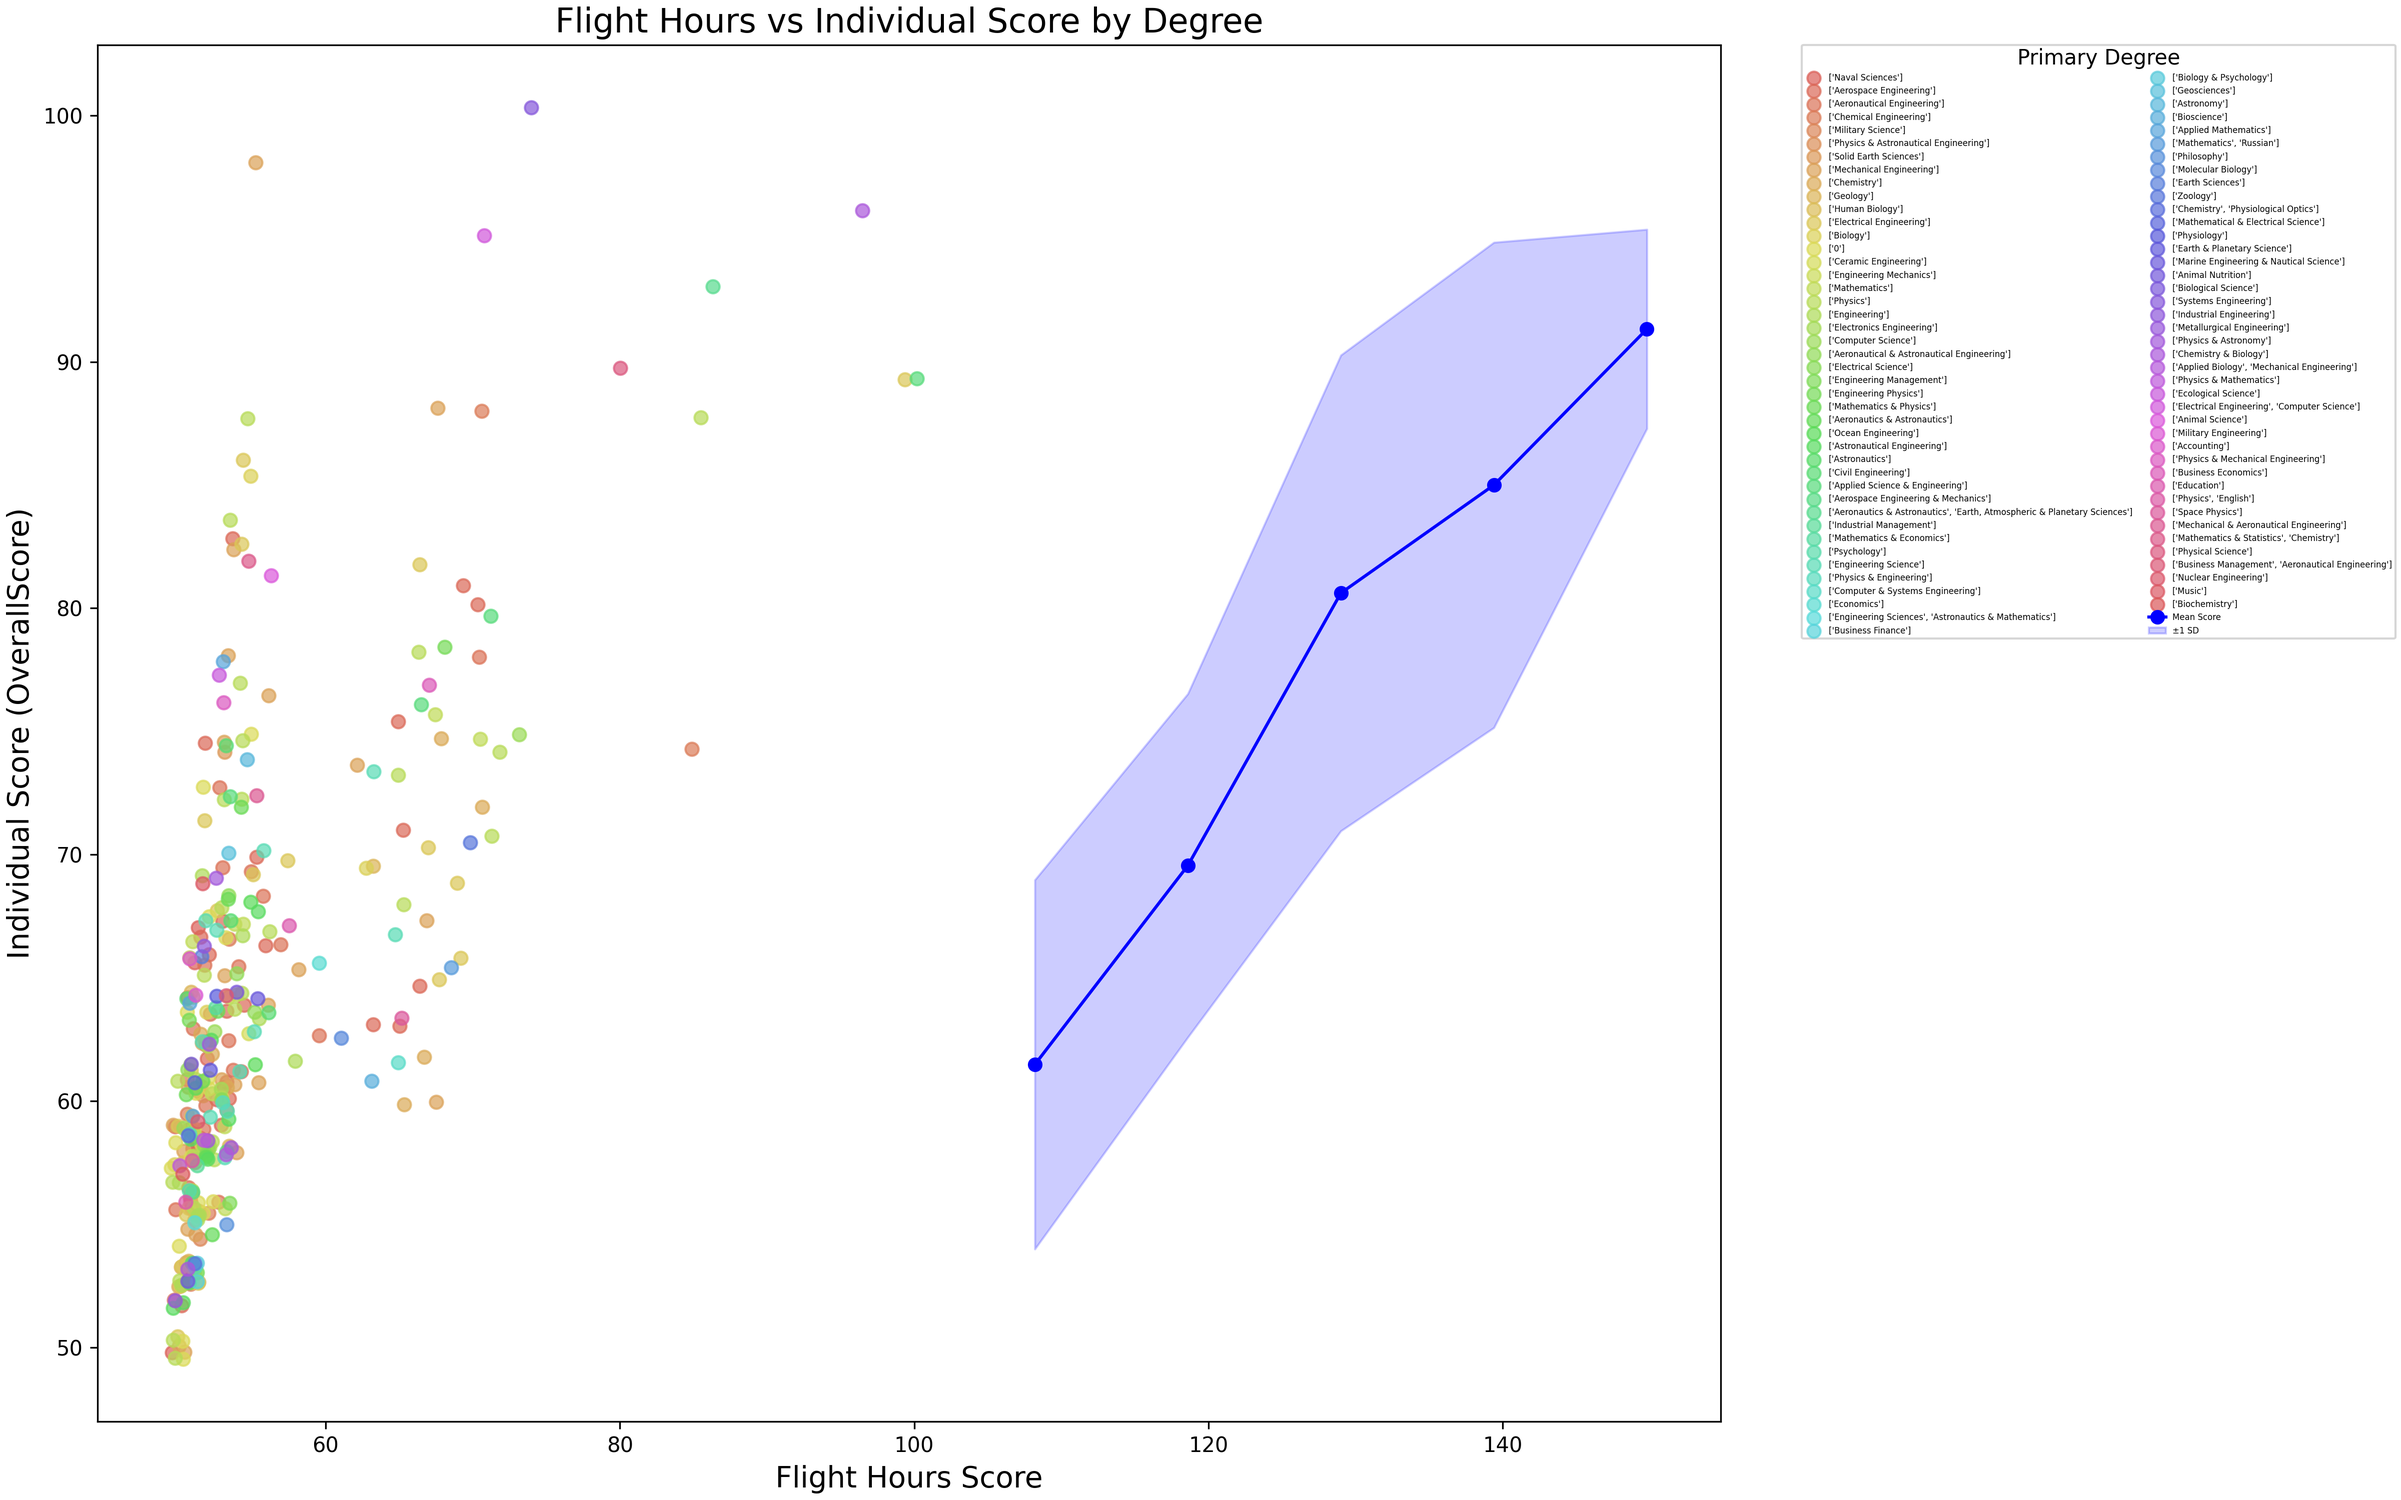
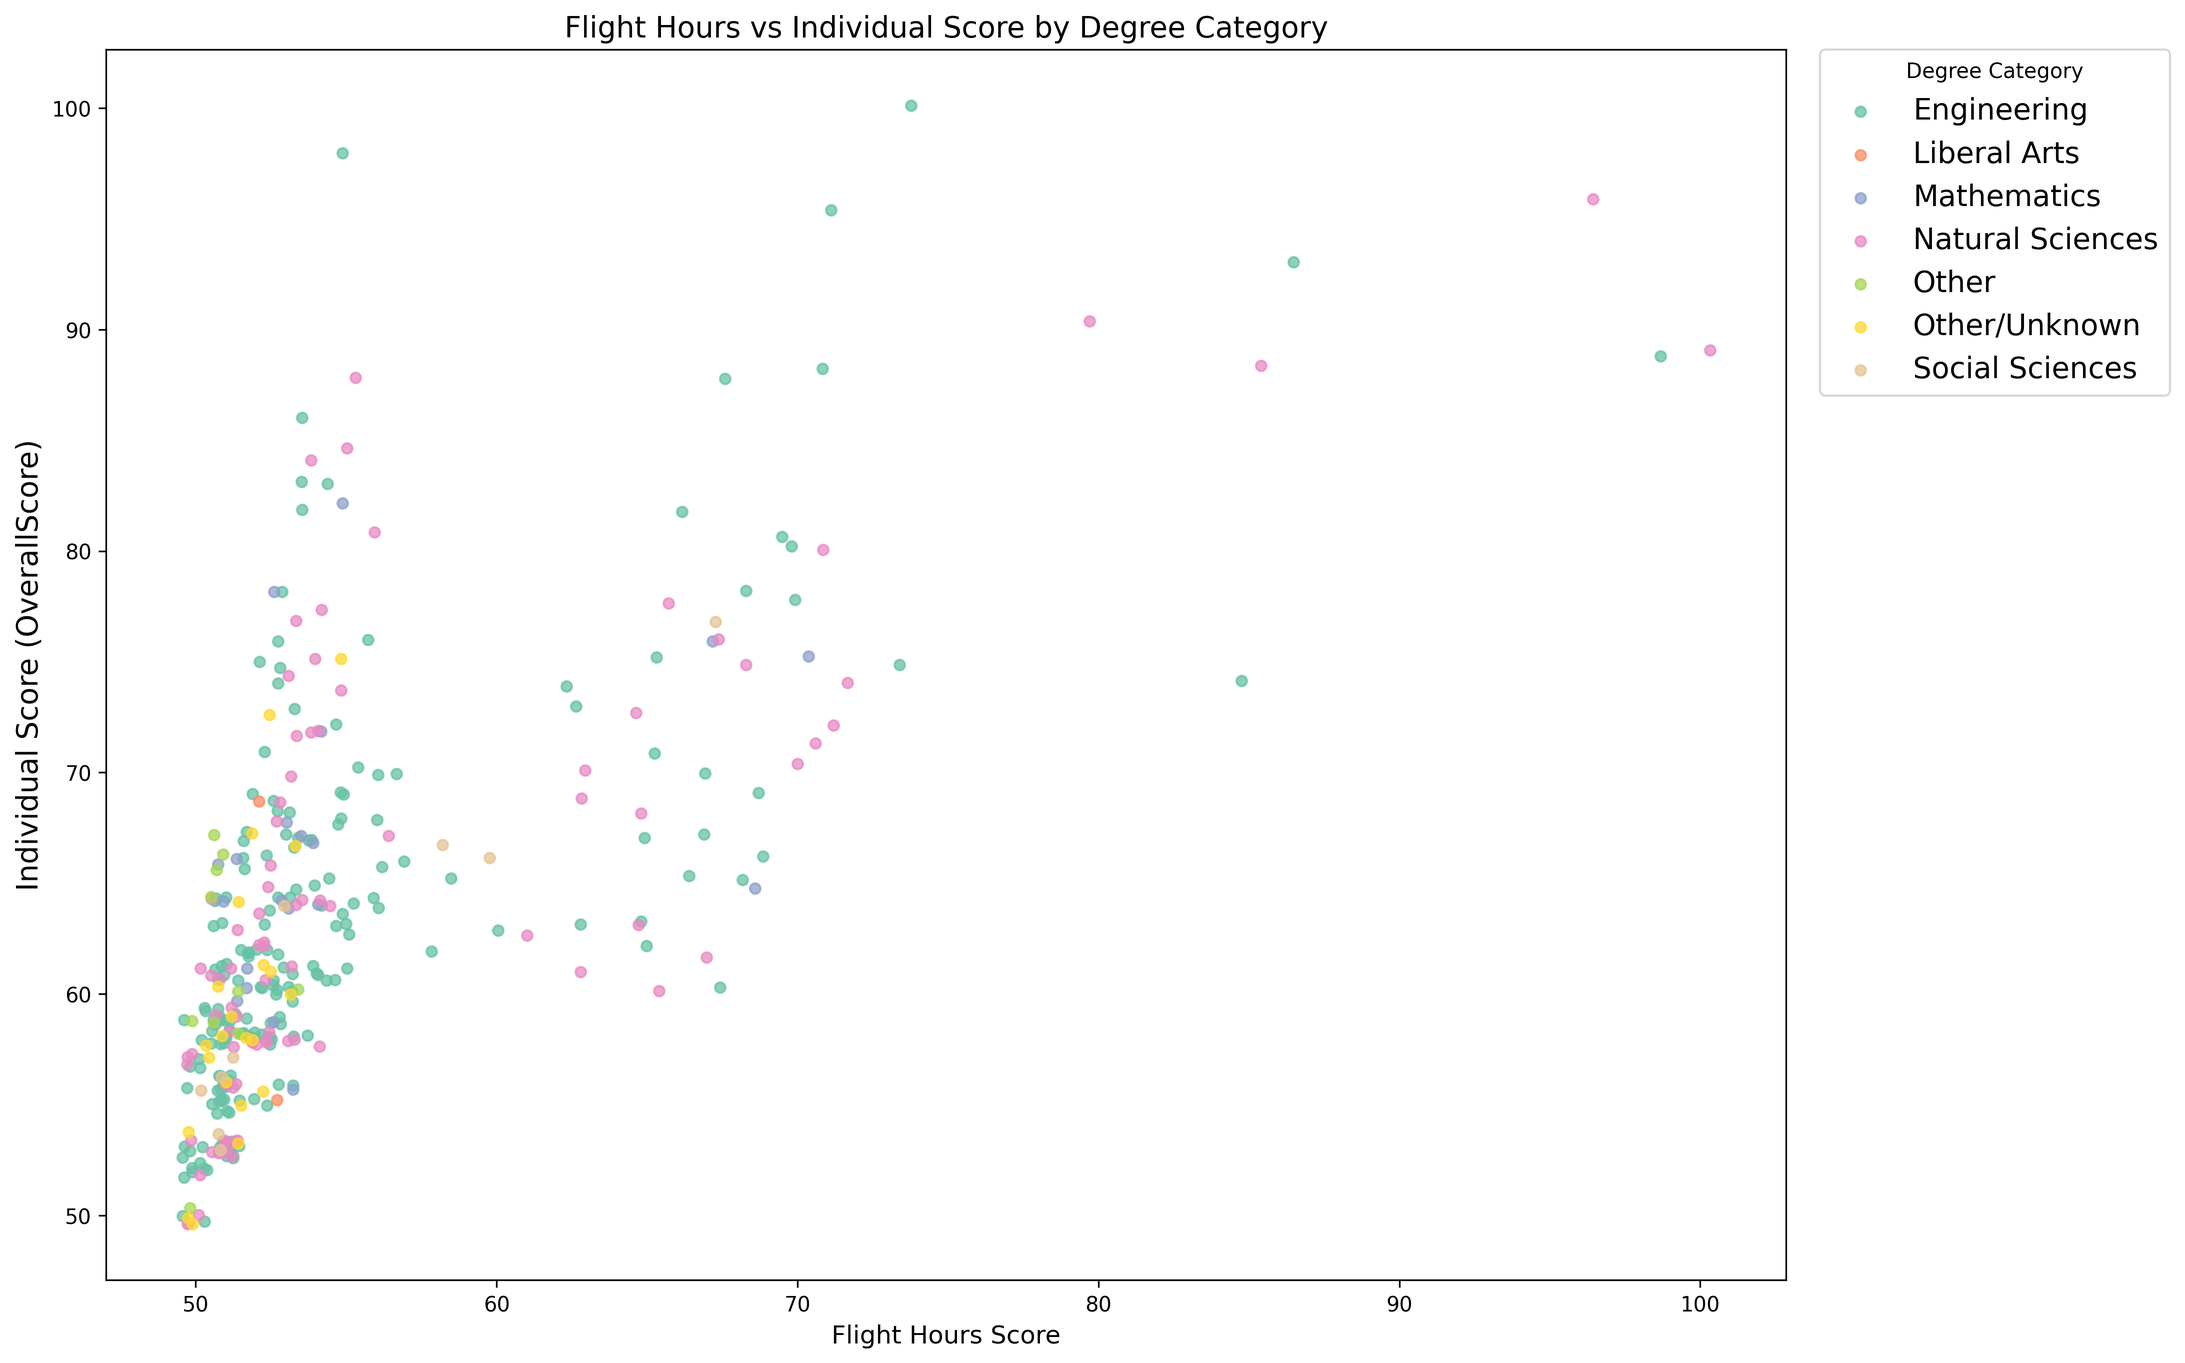
Simplified Degree Visualization

diff --git a/src/degree_scatterplot.py b/src/degree_scatterplot.py
@@ -2,7 +2,11 @@ import pandas as pd
 import matplotlib.pyplot as plt
 import seaborn as sns
 import numpy as np
-from sklearn.linear_model import LinearRegression
+import json
+import ast
+import re
+import difflib
+from collections import Counter
 
 # Visualize flight hours vs individual scores, color-coded by degree
 
@@ -13,72 +17,142 @@ df = pd.read_csv("data/processed/astronauts_scores.csv")
 required_columns = ["FlightHours_Score", "OverallScore", "UndergradMajorList"]
 for col in required_columns:
     if col not in df.columns:
-        raise ValueError(f"Required column '{col}' not found in dataframe")
+        raise ValueError(f"Required column '{col}' not found in dataframe. Found columns: {list(df.columns)}")
 
 # For plotting, we can assign a "primary degree" to each astronaut (first listed undergrad major)
-df["PrimaryDegree"] = df["UndergradMajorList"].apply(lambda lst: lst.split(";")[0].strip() if pd.notna(lst) and lst != "" else "Unknown")
+# Robust extractor: handles real lists, stringified lists, semicolon-separated strings, comma-separated strings.
+def extract_primary_degree(cell):
+    # if it's already a list type
+    if isinstance(cell, list):
+        return cell[0].strip() if cell else "Unknown"
+    if pd.isna(cell) or str(cell).strip() == "":
+        return "Unknown"
+    s = str(cell).strip()
+    # try to parse stringified list like "['Physics']"
+    try:
+        parsed = ast.literal_eval(s)
+        if isinstance(parsed, list) and parsed:
+            # return first element
+            return str(parsed[0]).strip()
+    except Exception:
+        pass
+    # fallback: split on semicolon (preferred) or comma
+    parts = re.split(r"\s*;\s*|\s*,\s*", s)
+    return parts[0].strip() if parts and parts[0] != "" else s
 
-# Generate a color palette for each degree dynamically
-unique_degrees = df["PrimaryDegree"].unique()
-palette = sns.color_palette("hls", len(unique_degrees))
-degree_colors = dict(zip(unique_degrees, palette))
+df["PrimaryDegree"] = df["UndergradMajorList"].apply(extract_primary_degree)
+
+# normalize for display (but keep original PrimaryDegree too)
+df["PrimaryDegree"] = df["PrimaryDegree"].astype(str).str.strip()
+
+#Grouping each major into categories
+
+with open("data/raw/degree_categories.json", "r") as f:
+    degree_categories = json.load(f)
+
+# Normalization helper that we apply to both the CSV degrees and JSON degrees
+def normalize_degree_text(s):
+    if s is None:
+        return ""
+    s = str(s)
+    s = s.strip()
+    # replace & with 'and'
+    s = s.replace("&", " and ")
+    # remove quotes and brackets
+    s = re.sub(r"[\[\]\"']", " ", s)
+    # remove punctuation except spaces and ampersands already handled
+    s = re.sub(r"[^0-9a-zA-Z\s]", " ", s)
+    # collapse whitespace and lowercase
+    s = re.sub(r"\s+", " ", s).strip().lower()
+    return s
+
+# Build a normalized flat lookup from normalized major -> category
+degree_to_category = {}
+for category, majors in degree_categories.items():
+    for major in majors:
+        norm = normalize_degree_text(major)
+        if norm:  # avoid empty keys
+            degree_to_category[norm] = category
+
+# Map a degree string into a category using multiple strategies
+def map_degree_to_category(degree):
+    if not degree or degree.lower() in ("nan", "none"):
+        return "Other/Unknown"
+    norm = normalize_degree_text(degree)
+    # Exact normalized match
+    if norm in degree_to_category:
+        return degree_to_category[norm]
+    # Fuzzy match against known normalized majors
+    candidates = difflib.get_close_matches(norm, degree_to_category.keys(), n=1, cutoff=0.72)
+    if candidates:
+        return degree_to_category[candidates[0]]
+    # Token-substring heuristic: if any token in norm appears inside a known major or vice versa
+    norm_tokens = set(norm.split())
+    for key in degree_to_category:
+        key_tokens = set(key.split())
+        # overlap of tokens
+        if norm_tokens & key_tokens:
+            return degree_to_category[key]
+    # give up
+    return "Other/Unknown"
+
+# Apply mapping and add a debug summary
+df["DegreeCategory"] = df["PrimaryDegree"].apply(map_degree_to_category)
+
+# Debugging output to verify mapping quality
+total = len(df)
+mapped = (df["DegreeCategory"] != "Other/Unknown").sum()
+unknown = total - mapped
+print(f"Degree mapping: total={total}, mapped={mapped}, unknown={unknown}")
+
+# Show the top unknown PrimaryDegree values for manual inspection
+unknown_samples = df[df["DegreeCategory"] == "Other/Unknown"]["PrimaryDegree"].value_counts().head(30)
+if not unknown_samples.empty:
+    print("\nTop unknown PrimaryDegree values (for debugging):")
+    print(unknown_samples.to_string())
+
+# Create a color palette by category
+categories = sorted(df["DegreeCategory"].unique())
+palette = sns.color_palette("Set2", len(categories))  # Or any palette you like
+color_map = dict(zip(categories, palette))
 
 # Create figure with constrained layout
-fig, ax = plt.subplots(figsize=(16, 10), constrained_layout=True)
+fig, ax = plt.subplots(figsize=(16, 10), constrained_layout=False)
+# leave room on right for legend
+fig.tight_layout(rect=[0, 0, 0.78, 1])
 
-# Scatter each degree
-for degree, color in degree_colors.items():
-    subset = df[df["PrimaryDegree"] == degree]
-    jitter_strength = 0.5  # How close the dots are
-    subset_x = subset["FlightHours_Score"] + np.random.uniform(-jitter_strength, jitter_strength, size=len(subset))
-    subset_y = subset["OverallScore"] + np.random.uniform(-jitter_strength, jitter_strength, size=len(subset))
+# Scatter each degree (add small jitter scaled to score ranges)
+x_jitter_scale = 0.5  # adjust if needed
+y_jitter_scale = 0.4
 
-    # Code without jitter
-    # ax.scatter(subset["FlightHours_Score"], subset["OverallScore"],
-    #            label=degree, color=color, s=50, alpha=0.7)
-    ax.scatter(subset_x, subset_y, label=degree, color=color, s=40, alpha=0.7)
-    
-# Trend line and standard deviation stuff
-# X = df["FlightHours_Score"].values.reshape(-1, 1)
-# y = df["OverallScore"].values
-# reg = LinearRegression().fit(X, y)
-# y_pred = reg.predict(X)
-# residuals = y - y_pred
-# std = np.std(residuals)
-# plt.fill_between(df["FlightHours_Score"], y_pred - std, y_pred + std, color='gray', alpha=0.2, label='±1 SD')
-# plt.plot(df["FlightHours_Score"], y_pred, color="black", linestyle="--", label="Trendline")
-
-min_val = df["FlightHours_Score"].min()
-max_val = df["FlightHours_Score"].max()
-num_bins = 6  # adjust for granularity - 6 looks pretty good
-bins = np.linspace(min_val - 1, max_val + 1, num_bins)  # slight buffer to include all points
-df["FlightBin"] = pd.cut(df["FlightHours_Score"], bins, include_lowest=True)
-
-# Compute mean and std for each bin
-agg = df.groupby("FlightBin").agg(
-    mean_score=("OverallScore", "mean"),
-    std_score=("OverallScore", "std")
-).reset_index()
-
-# Compute bin centers
-bin_centers = [interval.mid for interval in agg["FlightBin"]]
-
-# --- Plot trendline ---
-plt.plot(bin_centers, agg["mean_score"], color="blue", marker="o", label="Mean Score")
-plt.fill_between(bin_centers,
-                 agg["mean_score"] - agg["std_score"],
-                 agg["mean_score"] + agg["std_score"],
-                 color="blue", alpha=0.2, label="±1 SD")
+for cat in categories:
+    subset = df[df["DegreeCategory"] == cat]
+    if subset.empty:
+        continue
+    x_vals = subset["FlightHours_Score"].astype(float).values
+    y_vals = subset["OverallScore"].astype(float).values
+    plt.scatter(
+        x_vals + np.random.uniform(-x_jitter_scale, x_jitter_scale, size=len(subset)),  # jitter X
+        y_vals + np.random.uniform(-y_jitter_scale, y_jitter_scale, size=len(subset)),  # jitter Y
+        label=cat,
+        alpha=0.75,
+        s=25,
+        color=color_map[cat]
+    )
 
 # Axis labels and title
-ax.set_xlabel("Flight Hours Score", fontsize=14)
+ax.set_xlabel("Flight Hours Score", fontsize=12)
 ax.set_ylabel("Individual Score (OverallScore)", fontsize=14)
-ax.set_title("Flight Hours vs Individual Score by Degree", fontsize=16)
+ax.set_title("Flight Hours vs Individual Score by Degree Category", fontsize=14)
 
 # Legend outside plot
-ax.legend(bbox_to_anchor=(1.05, 1), loc='best', borderaxespad=0., title="Primary Degree", fontsize=4, ncol=2)
+plt.subplots_adjust(top = 0.92, right = 0.78, left = 0.08, bottom = 0.1)
+ax.legend(bbox_to_anchor=(1.02, 1), loc='upper left', borderaxespad=0., title="Degree Category", fontsize=14, ncol=1)
 
 # Save plot
-plt.savefig("data/analysis/flight_hours_vs_score.png", dpi=300)
-
+plt.savefig("data/analysis/flight_hours_vs_score.png", dpi=300, bbox_inches="tight")
 plt.show()
+
+# optional: print a few mapped examples for visual verification
+print("\nExamples (PrimaryDegree -> DegreeCategory):")
+print(df[["PrimaryDegree", "DegreeCategory"]].drop_duplicates().head(50).to_string(index=False))
